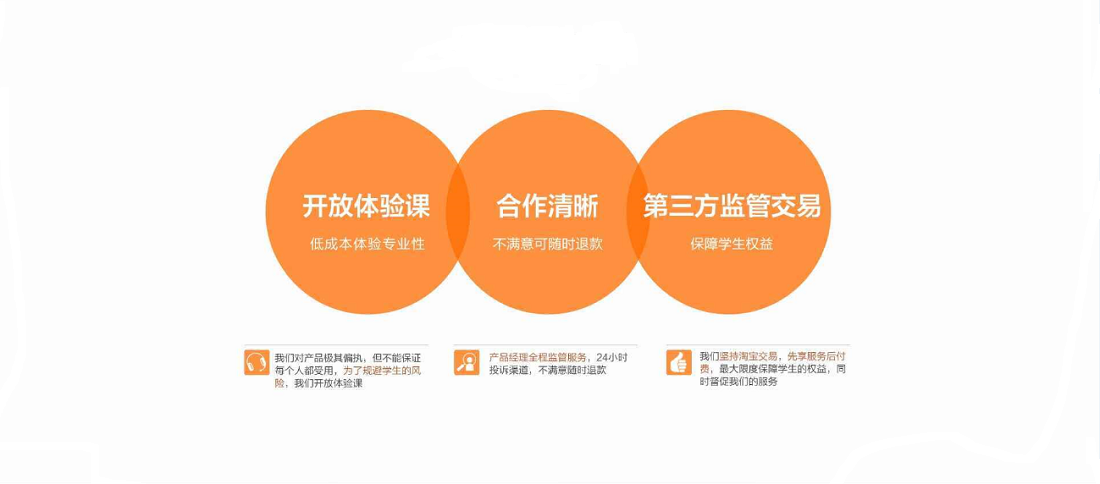
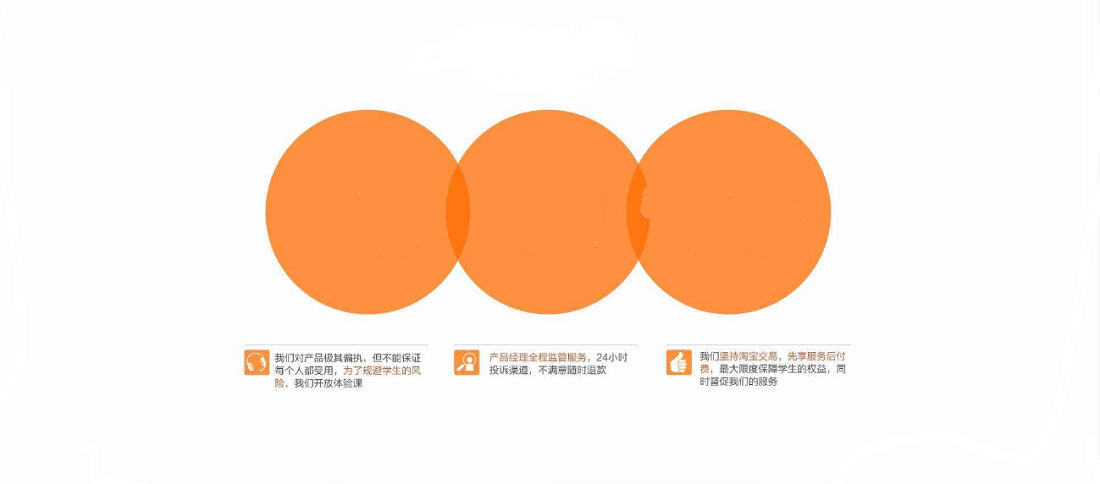
add pic

Changed region(s): [[0.4327, 0.4029, 0.7727, 0.5269], [0.2782, 0.4029, 0.4018, 0.5269]]

diff --git a/o/css/style.css b/o/css/style.css
@@ -2680,3 +2680,217 @@ a:hover{
     margin: 0 auto;
     margin-bottom: 20px;
 }
+
+.innner-radiu{
+	width: 383px;
+	height: 345px;
+	padding-top: 140px;
+	margin: 0 auto;
+}
+.innner-radiu .leff{
+	width: 50%;
+	height: 202px;
+	text-align: center;
+	float: left;
+}
+
+
+.innner-radiu .leff .ttop{
+	height: 112px;
+	color: white;
+	font-size: 25px;
+	padding-left: 6px;
+	line-height: 192px;
+}
+
+.innner-radiu .leff .ffoot{
+	height: 40px;
+	color: white;
+	font-size: 16px;
+	padding-left: 6px;
+	line-height: 37px;
+}
+
+
+
+
+
+.innner-radiu .rigg{
+	width: 50%;
+	height: 202px;
+	text-align: center;
+	float: left;
+	padding-right: 10px;
+}
+
+
+.innner-radiu .rigg .ttop{
+	height: 112px;
+	color: rgb(255,143,65);
+	font-size: 25px;
+	padding-left: 6px;
+	line-height: 166px;
+}
+
+.innner-radiu .rigg .ffoot{
+	height: 60px;
+	color: rgb(255,143,65);
+	font-size: 25px;
+	padding-left: 6px;
+	line-height: 29px;
+}
+
+
+
+/**/
+
+
+.innner-radius{
+	width: 383px;
+	height: 330px;
+	padding-top: 102px;
+	margin: 0 auto;
+}
+.innner-radius .leff{
+	width: 50%;
+	height: 202px;
+	text-align: center;
+	float: left;
+}
+
+
+.innner-radius .leff .ttop{
+	height: 112px;
+	color: white;
+	font-size: 25px;
+	padding-left: 6px;
+	line-height: 192px;
+}
+
+.innner-radius .leff .ffoot{
+	height: 40px;
+	color: white;
+	font-size: 16px;
+	padding-left: 6px;
+	line-height: 37px;
+}
+
+
+
+
+
+.innner-radius .rigg{
+	width: 50%;
+	height: 202px;
+	text-align: center;
+	float: left;
+	padding-right: 10px;
+	padding-top: 12px;
+}
+
+
+.innner-radius .rigg .ttop{
+	height: 106px;
+	color: white;
+	font-size: 25px;
+	padding-left: 6px;
+	line-height: 166px;
+}
+
+.innner-radius .rigg .ffoot{
+	height: 60px;
+	color: white;
+	font-size: 16px;
+	padding-left: 6px;
+	line-height: 29px;
+}
+
+
+/**/
+
+
+.innner-radiuz{
+	width: 568px;
+	height: 318px;
+	padding-top: 114px;
+	margin: 0 auto;
+}
+.innner-radiuz .leff{
+	width: 33%;
+	height: 202px;
+	text-align: center;
+	float: left;
+}
+
+
+.innner-radiuz .leff .ttop{
+	height: 112px;
+	color: white;
+	font-size: 25px;
+	padding-left: 6px;
+	line-height: 184px;
+}
+
+.innner-radiuz .leff .ffoot{
+	height: 40px;
+	color: white;
+	font-size: 16px;
+	padding-left: 6px;
+	line-height: 37px;
+}
+
+
+
+.innner-radiuz .midd{
+	width: 33%;
+	height: 202px;
+	text-align: center;
+	float: left;
+}
+
+
+.innner-radiuz .midd .ttop{
+	height: 112px;
+	color: white;
+	font-size: 25px;
+	padding-left: 6px;
+	line-height: 183px;
+}
+
+.innner-radiuz .midd .ffoot{
+	height: 40px;
+	color: white;
+	font-size: 16px;
+	padding-left: 6px;
+	line-height: 37px;
+}
+
+
+
+
+
+.innner-radiuz .rigg{
+	width: 33%;
+	height: 202px;
+	text-align: center;
+	float: left;
+	padding-right: 10px;
+	padding-top: 12px;
+}
+
+
+.innner-radiuz .rigg .ttop{
+	height: 106px;
+	color: white;
+	font-size: 25px;
+	padding-left: 2px;
+	line-height: 162px;
+}
+
+.innner-radiuz .rigg .ffoot{
+	height: 60px;
+	color: white;
+	font-size: 16px;
+	padding-left: 6px;
+	line-height: 29px;
+}

diff --git a/o/首页.html b/o/首页.html
@@ -100,6 +100,16 @@
                 课程有价值
             <div class="border-lin-bot"></div>
         </div>
+        <div class="innner-radiu">
+            <div class="leff">
+                <div class="ttop">教学理念</div>
+                <div class="ffoot">效果导向</div>
+            </div>
+            <div class="rigg">
+                <div class="ttop">老师更专业</div>
+                <div class="ffoot">学习更高效</div>
+            </div>
+        </div>
         
     </div>
 
@@ -110,7 +120,16 @@
                 学习优体验
             <div class="border-lin-bot"></div>
         </div>
-        
+        <div class="innner-radius">
+            <div class="leff">
+                <div class="ttop">助教</div>
+                <div class="ffoot">陪伴你全程</div>
+            </div>
+            <div class="rigg">
+                <div class="ttop">技术研发</div>
+                <div class="ffoot">稳定的教学支持</div>
+            </div>
+        </div>
     </div>
 
 
@@ -119,7 +138,24 @@
                 学习无顾虑
             <div class="border-lin-bot"></div>
         </div>
-        
+
+
+        <div class="innner-radiuz">
+            <div class="leff">
+                <div class="ttop">开放体验课</div>
+                <div class="ffoot">低成本体验专业性</div>
+            </div>
+            <div class="midd">
+                <div class="ttop">合作清晰</div>
+                <div class="ffoot">不满意可随时退款</div>
+            </div>
+            <div class="rigg">
+                <div class="ttop">第三方监管交易</div>
+                <div class="ffoot">保障学生权益</div>
+            </div>
+        </div>
+
+
     </div>
 
 
